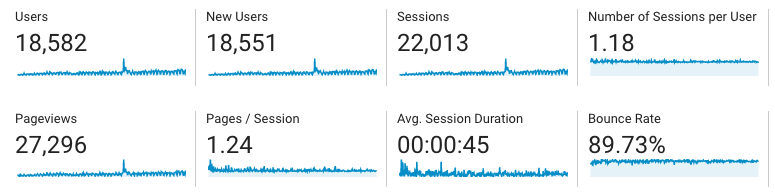
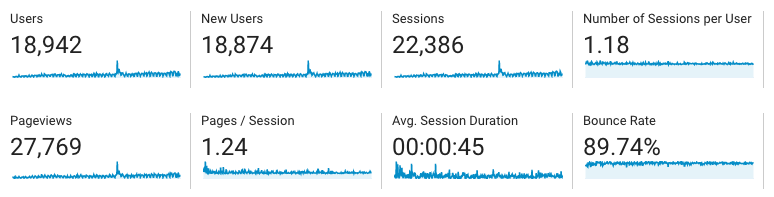
Update

diff --git a/_posts/2019-12-25-review-of-2019.md b/_posts/2019-12-25-review-of-2019.md
@@ -1,13 +1,14 @@
 ---
-layout:      post
-title:       "Review of 2019"
-date:        "2019-12-25 15:23:57 +0100"
-comments:    true
-excerpt:     >
+layout:             post
+title:              "Review of 2019"
+date:               "2019-12-25 15:23:57 +0100"
+last_modified_at:   2020-01-01 10:13:31 +0100
+comments:           true
+excerpt:            >
     Review of 2019.
-img_url:     /images/20191225-2019.jpg
-img_width:   1280
-img_height:  725
+img_url:            /images/20191225-2019.jpg
+img_width:          1280
+img_height:         725
 ---
 
 <p align="center">
@@ -228,8 +229,8 @@ than others, their average unit price is less than 8k euros.
 This year I wrote 33 blogs (yes, including this one), they talk about various
 topics: Data Visualisation, Machine Learning, Data Analysis, python application,
 database, performance, API, Excel, git and SQL. Moreover, the traffic of my
-blog increases nearly 850% with respect to 2018. I’m pretty glad if my blogs
-can help you and solve the problem for you.
+blog increases nearly 870% with respect to 2018. I’m pretty glad if my blogs
+can help you and solve the problems for you.
 
 <p align="center">
   <img alt="Blog traffic 1"
